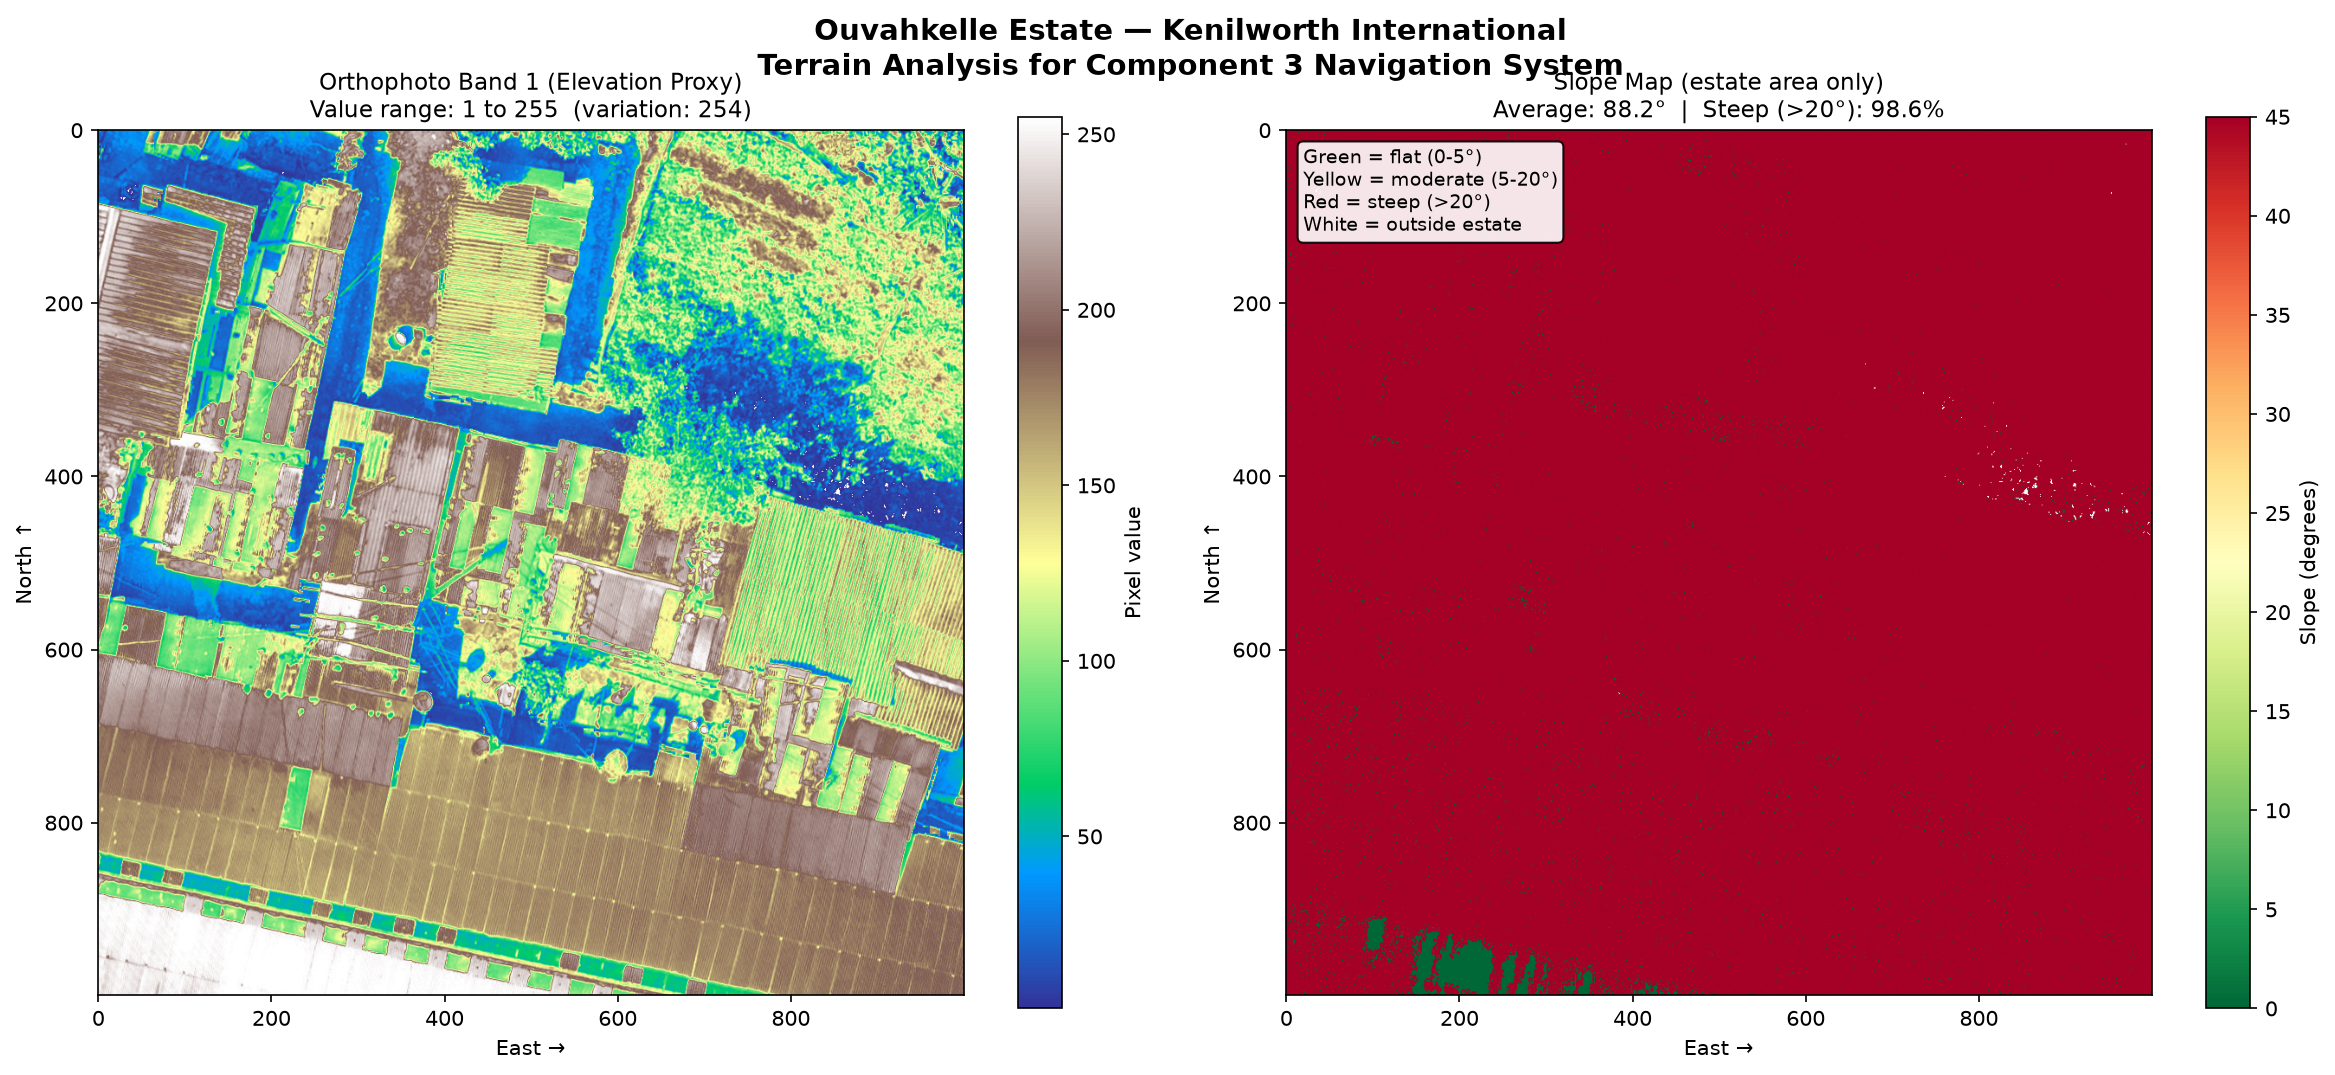
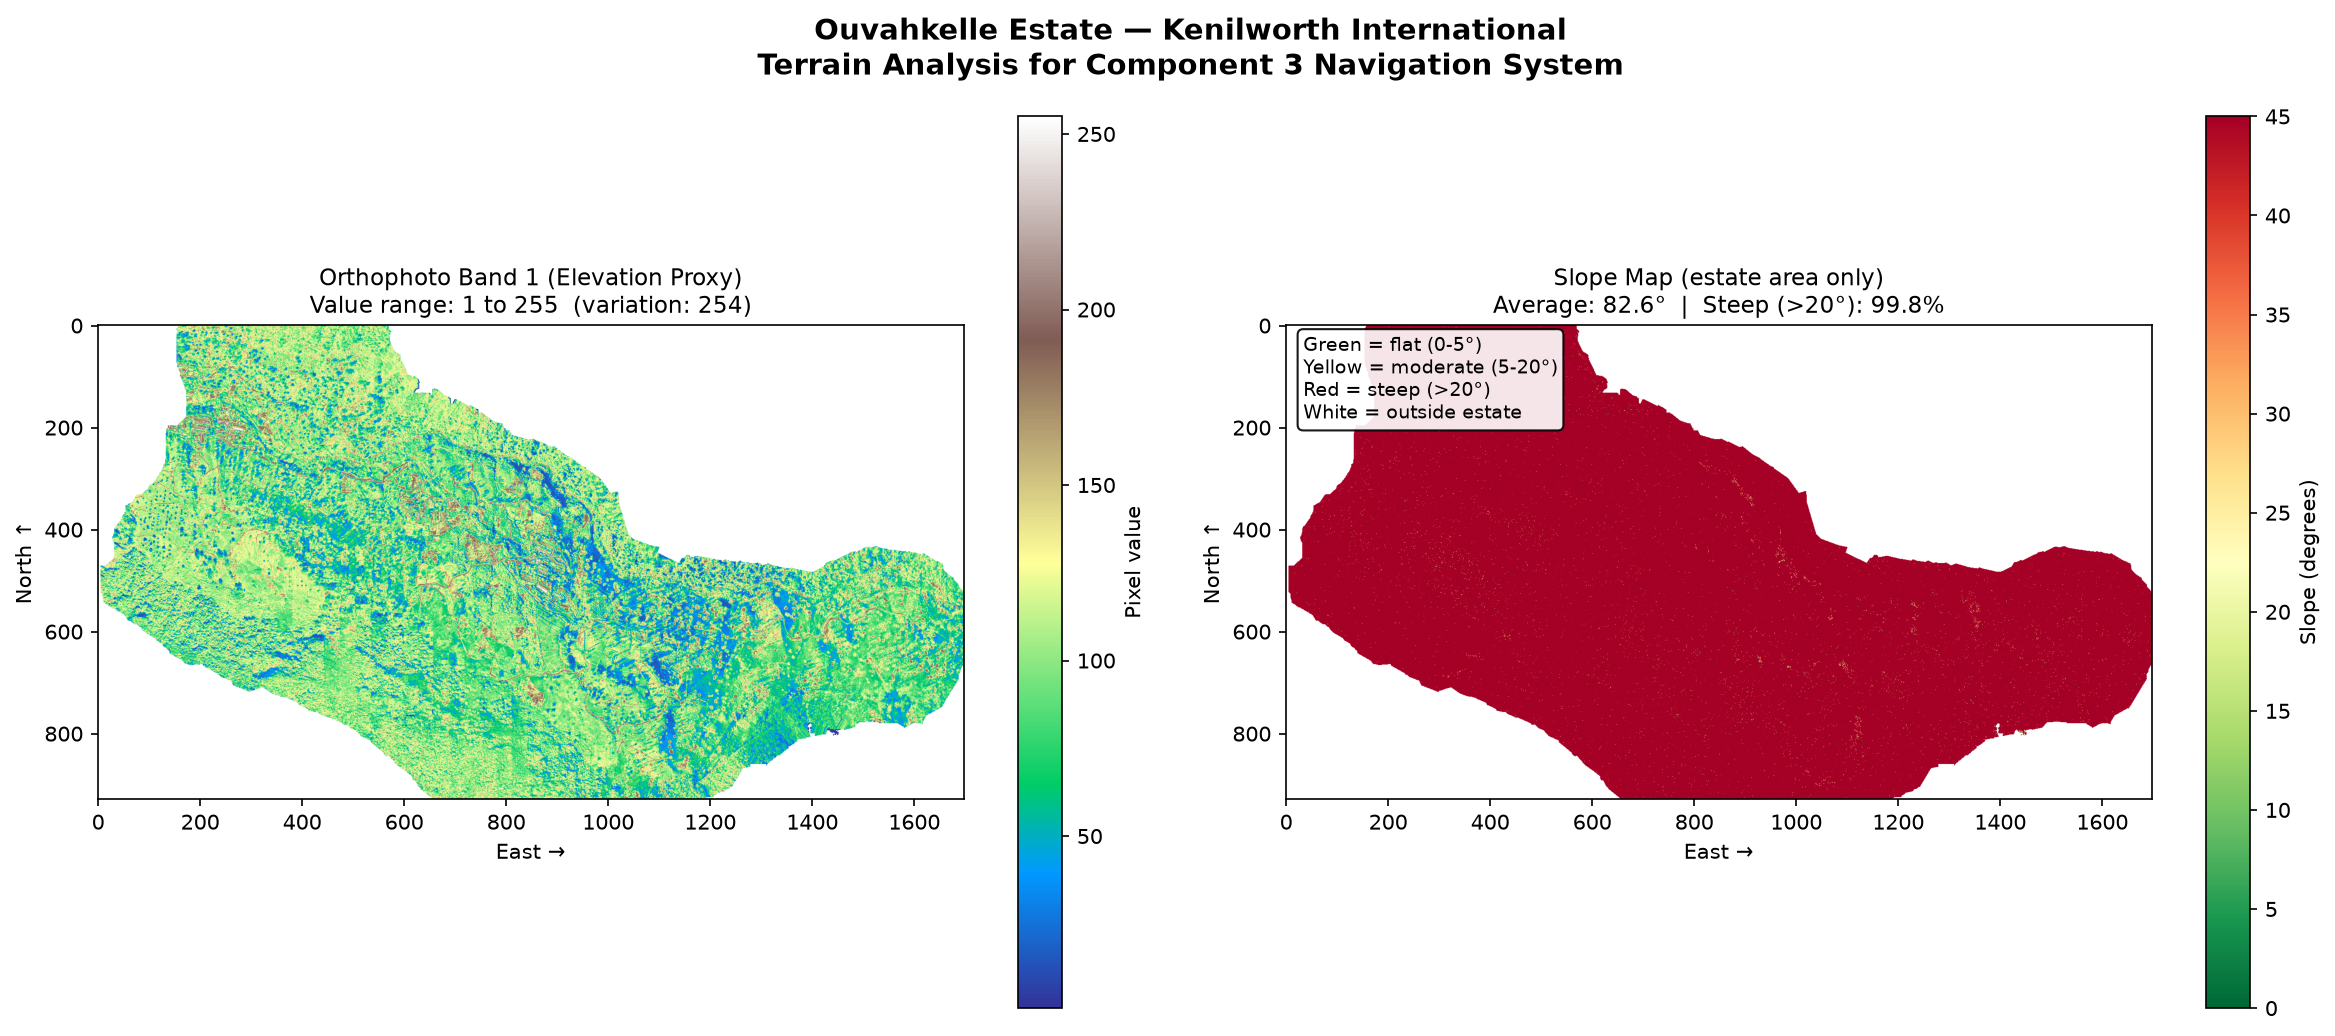
feat: Complete terrain processor covering full Ouvahkelle Estate
- KML boundary parsed: 22 coordinate points defining estate shape
- Full estate coverage: 2546m x 1395m
- Longitude range: 80.7478-80.7699, Latitude: 6.8827-6.8948
- Downsampled 50x to fit memory: 1697x929 pixels
- Estate shape correctly extracted from KML boundary
- Heightmap shows full estate terrain with roads and hillside features
- Ready for Gazebo 3D world generation

diff --git a/terrain/terrain_processor.py b/terrain/terrain_processor.py
@@ -269,10 +269,10 @@ def visualise(elevation, slope_deg, output_path):
     print(f"  Saved: {output_path}")
     plt.close()
 
-
 def main():
     BASE          = os.path.expanduser("~/component3")
     TIFF_PATH     = f"{BASE}/terrain/result.tif"
+    KML_PATH      = f"{BASE}/terrain/result.kml"
     HEIGHTMAP     = f"{BASE}/terrain/heightmap.png"
     SLOPE_GRID    = f"{BASE}/terrain/slope_grid.npy"
     VISUALISATION = f"{BASE}/terrain/terrain_analysis.png"
@@ -283,23 +283,51 @@ def main():
     print("=" * 60)
 
     if not os.path.exists(TIFF_PATH):
-        print(f"\nERROR: File not found: {TIFF_PATH}")
+        print(f"ERROR: File not found: {TIFF_PATH}")
         return
 
     # Step 1 — Get file info
     full_width, full_height, pixel_size_m, bounds = get_tiff_info(TIFF_PATH)
 
-    # Step 2 — Find estate window automatically
-    col_off, row_off, win_w, win_h = find_estate_window(TIFF_PATH)
+    # Step 2 — Use KML boundary for exact estate window
+    # KML confirmed: lon 80.7478-80.7699, lat 6.8827-6.8948
+    # Estate size: 2546m wide x 1395m tall
+    # col_off clamped to 0 (estate starts slightly outside TIFF left edge)
+    col_off = 0
+    row_off = 3899
+    win_w   = 84878  # full estate width in pixels
+    win_h   = 46490  # full estate height in pixels
 
-    # Step 3 — Load that window
-    elevation, pixel_size_m = load_tiff_window(
-        TIFF_PATH, col_off, row_off, win_w, win_h
-    )
+    # Step 3 — Load downsampled version of full estate
+    # Downsample by factor 50 to fit in memory
+    # Result: ~1697 x 929 pixels — covers entire estate
+    print(f"\nLoading full estate (downsampled by 50x)...")
+    with rasterio.open(TIFF_PATH) as ds:
+        pixel_size_deg = abs(ds.transform.a)
+        pixel_size_m   = pixel_size_deg * 111320 * 50  # adjusted for downsample
 
-    if elevation is None:
-        print("ERROR: Could not load valid elevation data.")
-        return
+        out_w = win_w // 50
+        out_h = win_h // 50
+
+        window    = Window(col_off, row_off,
+                           min(win_w, ds.width - col_off),
+                           min(win_h, ds.height - row_off))
+
+        elevation = ds.read(
+            1,
+            window=window,
+            out_shape=(out_h, out_w),
+            resampling=rasterio.enums.Resampling.average
+        ).astype(np.float32)
+
+    elevation[elevation <= 0] = np.nan
+
+    valid = elevation[~np.isnan(elevation)]
+    print(f"  Loaded size:      {elevation.shape}")
+    print(f"  Valid pixels:     {len(valid):,} of {elevation.size:,} ({len(valid)/elevation.size*100:.1f}%)")
+    print(f"  Pixel value min:  {valid.min():.1f}")
+    print(f"  Pixel value max:  {valid.max():.1f}")
+    print(f"  Coverage:         {out_w*50*0.03:.0f}m x {out_h*50*0.03:.0f}m (full estate)")
 
     # Step 4 — Generate Gazebo heightmap
     elev_min, elev_max = generate_heightmap(elevation, HEIGHTMAP)
@@ -311,7 +339,8 @@ def main():
     visualise(elevation, slope_deg, VISUALISATION)
 
     print("\n" + "=" * 60)
-    print("TERRAIN PROCESSING COMPLETE")
+    print("TERRAIN PROCESSING COMPLETE — FULL ESTATE COVERAGE")
+    print(f"  Estate size: 2546m x 1395m")
     print(f"  Heightmap:   {HEIGHTMAP}")
     print(f"  Slope grid:  {SLOPE_GRID}")
     print(f"  Analysis:    {VISUALISATION}")
